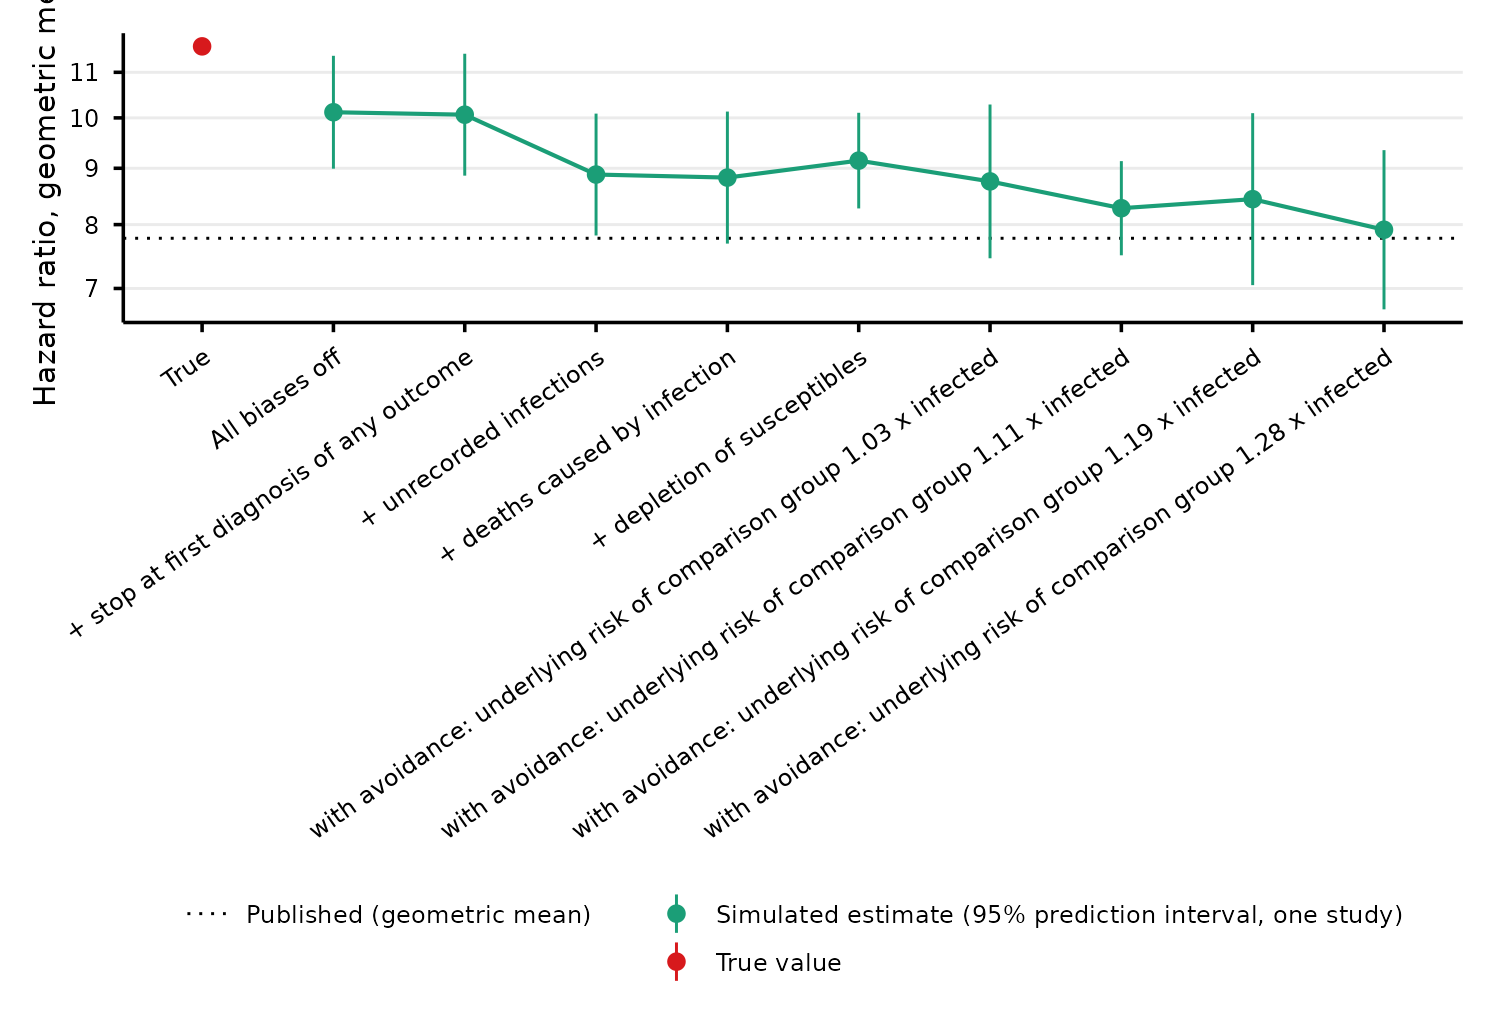
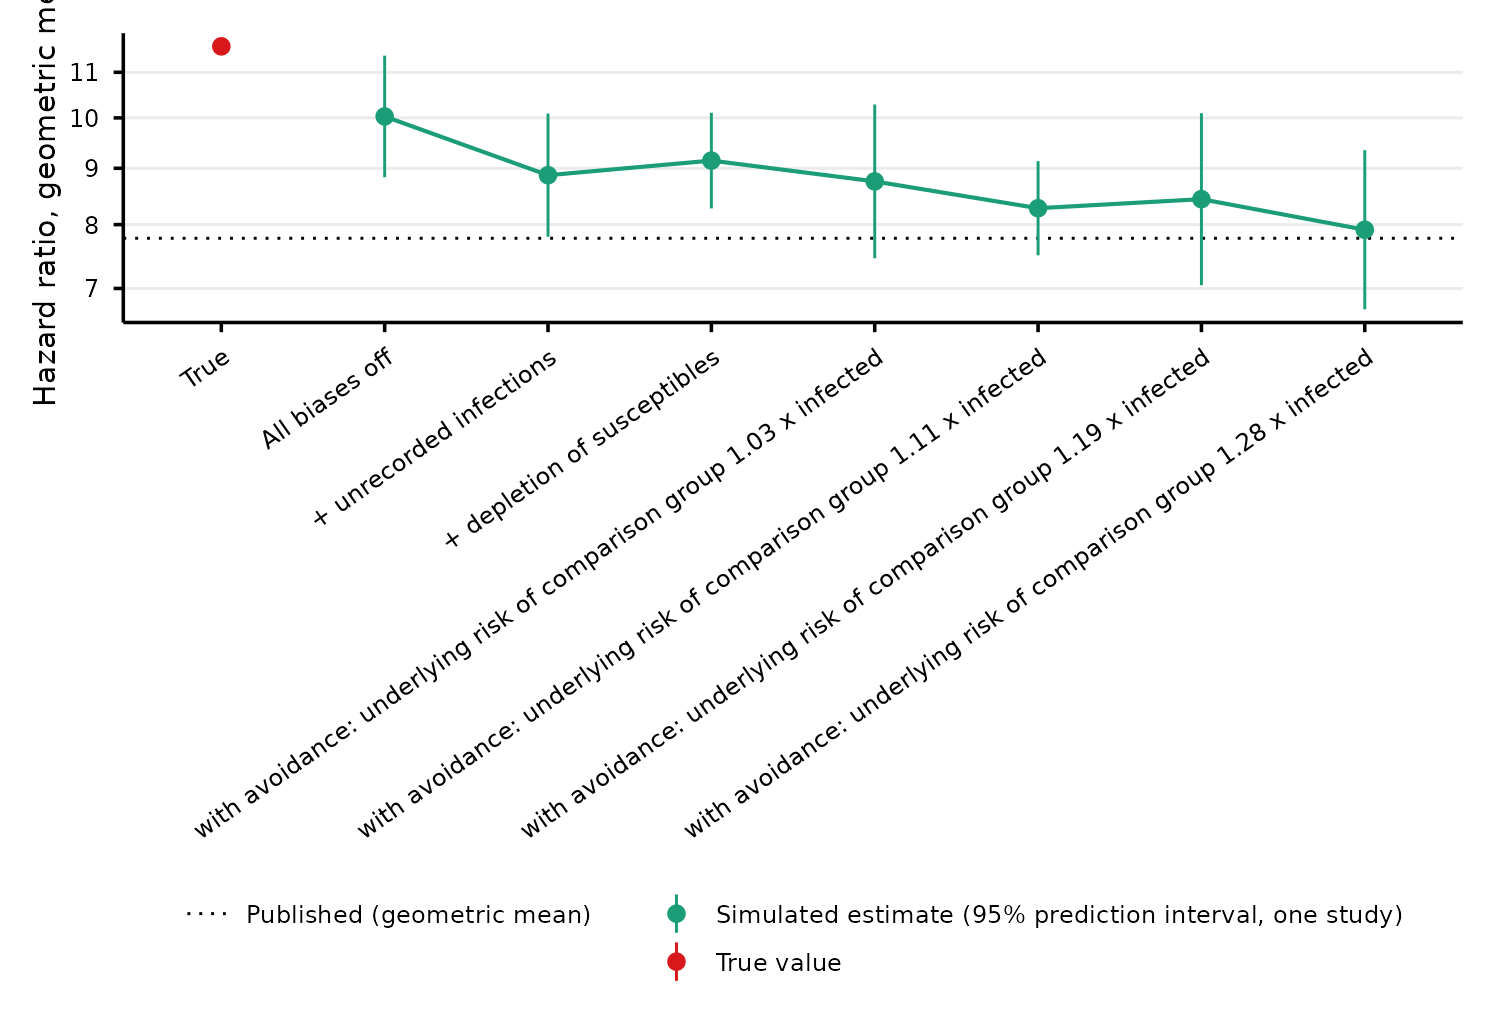
Three biases: unrecorded infections, depletion of susceptibles, avoidance
Stopping follow-up at the first diagnosis of any outcome is now part of
depletion of susceptibles. Deaths caused by infection stay in the model
in every step and are no longer presented as a bias; the README states
their effect on the estimates. The Shapley decomposition is removed.
The final step and the variant results are unchanged.

diff --git a/README.md b/README.md
@@ -23,7 +23,7 @@ The main cause is the comparison group. By the end of 2022, 90% of the cohort ha
 | Comparison group | Person-time of persons whose tests have all been negative so far. The paper calls it test-negative person-time. A person leaves it at their first positive test. |
 | Underlying cardiovascular risk | The part of a person’s cardiovascular risk that age does not explain, for example from smoking, body weight or medication. The paper does not adjust for these. In the code it is called frailty: one number per person that multiplies all of that person’s cardiovascular hazards. |
 | Avoidance of infection | Persons with a higher underlying cardiovascular risk are less likely to be infected. They are then more common among those still uninfected, so the comparison group gets riskier as the population is infected. |
-| Depletion of susceptibles | Infection brings diagnoses forward, most of all in persons at high underlying risk. Those still undiagnosed later are then at lower risk than at the start. |
+| Depletion of susceptibles | Infection brings diagnoses forward, most of all in persons at high underlying risk. Those still undiagnosed later are then at lower risk than at the start. The paper’s rule that follow-up for every outcome stops at the first diagnosis of any of the 15 outcomes is part of it. |
 | Prediction interval | The range in which 95% of estimates from one study of this size would fall, from the spread over the 10 simulated cohorts. |
 | Omicron wave | 21 December 2021 to 10 March 2022 in the model. Widespread PCR testing in Denmark ended on 10 March 2022. |
 | Supplementary Table 1 | Boyd et al.’s main estimates: hazard ratio per outcome and time window. |
@@ -43,7 +43,7 @@ The two patterns point to bias, not protection. The persons infected in 2020 and
 1.  **Cohort.** `Run.R` simulates 10 cohorts of 4,508,489 persons, the size of the paper’s cardiovascular cohort, with its age distribution and follow-up from 1 March 2020 to 31 December 2022.
 2.  **Infections.** 2,698,261 persons get a recorded infection, as in the paper, at dates that follow the Danish national case counts. One third of all infections are unrecorded. Persons with a higher underlying cardiovascular risk are less likely to be infected (avoidance of infection).
 3.  **True effects.** Each infection, recorded or unrecorded, multiplies the person’s hazard of each of 15 cardiovascular outcomes by a true hazard ratio for each time window. Every true hazard ratio is at least 1.01, so infection is harmful for every outcome in every window.
-4.  **Biases.** Five features of the data can move the estimates away from the true hazard ratios: depletion of susceptibles, avoidance of infection, unrecorded infections, deaths caused by infection, and the end of follow-up at a person’s first diagnosis of any of the 15 outcomes.
+4.  **Biases.** Three features of the data move the estimates away from the true hazard ratios: unrecorded infections, depletion of susceptibles and avoidance of infection. The model also lets infection kill some persons, more often those at high underlying risk. This changes the estimates by 3% or less, so it is in the model throughout and is not treated as a bias.
 5.  **Analysis.** Each cohort is analysed as the paper does, approximately: person-time is split by time window, 5-year age band and calendar year, and one Poisson model per outcome gives the estimated hazard ratios.
 
 The true hazard ratios are fitted: they are the values for which the estimated hazard ratios match the published ones, under the rule that a true hazard ratio is at least 1.01 and does not increase with time since infection. [The model](#the-model) gives every input and its source.
@@ -98,19 +98,21 @@ The letter figure is [figures/forest_12m.png](figures/forest_12m.png). It shows 
 
 ### How each bias works
 
-The four examples use 100 persons per group, and illustrative numbers rather than simulation output. In each, infection multiplies every person’s risk of a cardiovascular diagnosis by 1.20. A high-risk person has a 50% risk and a low-risk person a 5% risk. So the true ratio of risks is 1.20 in every example. Each example gives the ratio that a study would see. `Illustrations.R` draws them.
+The three examples use 100 persons per group, and illustrative numbers rather than simulation output. In each, infection multiplies every person’s risk of a cardiovascular diagnosis by 1.20. A high-risk person has a 50% risk and a low-risk person a 5% risk. So the true ratio of risks is 1.20 in every example. Each example gives the ratio that a study would see. `Illustrations.R` draws them.
 
-After each example comes the size of the bias in the simulation: how the estimate at 12 months or more changes when the bias is added. The biases are added in the order of the figures in [the next section](#what-each-bias-does-in-the-simulation), and each value is the geometric mean over the 12 outcomes.
+After each example comes the size of the bias in the simulation: how the estimate at 12 months or more changes when the bias is added. The biases are added in the order below, as in the figures of [the next section](#what-each-bias-does-in-the-simulation), and each value is the geometric mean over the 12 outcomes.
 
-**Higher-risk persons avoid infection.** If persons at high underlying risk are more careful, fewer of them are infected. By 2022, when most of the population had been infected, those still uninfected include a larger share of high-risk persons. The comparison group then looks riskier than the infected group, for a reason that has nothing to do with infection. The study would see 0.81.
+**Unrecorded infections.** About one third of infections in the Omicron wave were not recorded, so some infected persons stay in the comparison group. In the example, 50 of 150 infections are unrecorded. Their raised risk makes the comparison group look worse. The study would see 1.09.
 
-In the simulation, avoidance of infection lowers the estimate from 0.98 to 0.83. It is the largest bias.
+In the simulation, unrecorded infections lower the estimate from 1.18 to 1.04.
 
-![Higher-risk persons avoid infection](figures/illustration_avoidance.png)
+![Unrecorded infections](figures/illustration_unrecorded.png)
 
 **Depletion of susceptibles.** Both groups start with the same 100 persons, followed for two years. A person diagnosed in year 1 is no longer free of cardiovascular disease, so they leave the comparison. Infection brings diagnoses forward, most of all in high-risk persons, so in year 2 the infected group has fewer high-risk persons left. Year 1 shows the true ratio, and year 2 shows 1.10.
 
-In the simulation, depletion of susceptibles lowers the estimate from 1.04 to 0.98. Adding it also lets deaths caused by infection fall on the persons at highest risk. The effect grows with time since infection, as depletion does:
+The paper adds to this. It stops follow-up for every outcome at a person’s first diagnosis in any of the 15 cardiovascular groups, so a diagnosis of one outcome also removes the person from the comparisons of all the others.
+
+In the simulation, depletion of susceptibles lowers the estimate from 1.04 to 0.98. The effect grows with time since infection, as depletion does:
 
 | Time window       | Before | After |
 |:------------------|-------:|------:|
@@ -120,23 +122,15 @@ In the simulation, depletion of susceptibles lowers the estimate from 1.04 to 0.
 
 ![Depletion of susceptibles](figures/illustration_depletion.png)
 
-**Unrecorded infections.** About one third of infections in the Omicron wave were not recorded, so some infected persons stay in the comparison group. In the example, 50 of 150 infections are unrecorded. Their raised risk makes the comparison group look worse. The study would see 1.09.
+**Higher-risk persons avoid infection.** If persons at high underlying risk are more careful, fewer of them are infected. By 2022, when most of the population had been infected, those still uninfected include a larger share of high-risk persons. The comparison group then looks riskier than the infected group, for a reason that has nothing to do with infection. The study would see 0.81.
 
-In the simulation, unrecorded infections lower the estimate from 1.18 to 1.04.
+In the simulation, avoidance of infection lowers the estimate from 0.98 to 0.83. It is the largest bias.
 
-![Unrecorded infections](figures/illustration_unrecorded.png)
-
-**Deaths caused by infection.** Infection kills some of the persons at the highest risk before they can be diagnosed. The infected group loses some of its highest-risk persons. The study would see 1.10.
-
-In the simulation, adding deaths caused by infection leaves the estimate at 1.04.
-
-![Deaths caused by infection](figures/illustration_deaths.png)
-
-**Stopping at the first diagnosis of any outcome.** The paper stops follow-up for every outcome at a person’s first diagnosis in any of the 15 cardiovascular groups. A diagnosis of one outcome therefore removes the person from the comparisons of all the others. This is depletion across outcomes. It removes high-risk persons from both groups. In the simulation, it leaves the estimate at 1.18.
+![Higher-risk persons avoid infection](figures/illustration_avoidance.png)
 
 ### What each bias does in the simulation
 
-`Bias.R` switches the biases on and off in the simulated cohorts, with the true hazard ratios unchanged, and analyses each setting as the paper does. In the table of contributions below, depletion of susceptibles and avoidance of infection are counted together, because both work through underlying risk.
+`Bias.R` switches the biases on and off in the simulated cohorts, with the true hazard ratios unchanged, and analyses each setting as the paper does.
 
 There is one figure per time window. Each starts with all biases off and adds them one at a time. The last steps are avoidance of increasing strength, and each replaces the step before it. Each label gives the mean underlying risk of the comparison group from 28 August to 31 December 2022, relative to persons after a recorded infection in the same period, both counted until their first cardiovascular diagnosis. It is pooled over ages and time windows, and is not a ratio of cardiovascular risk. Each point is the geometric mean over the outcomes with an estimate in every cohort: all 12, except at day 0-1, where 8 outcomes have one. Each bar is the 95% prediction interval for one study.
 
@@ -165,10 +159,8 @@ There is one figure per time window. Each starts with all biases off and adds th
 | Step | Day 0-1 | Day 2 to \<1 month | 1 to 5 months | 6 to 11 months | 12 months or more |
 |:---|---:|---:|---:|---:|---:|
 | True | 11.61 | 1.62 | 1.34 | 1.32 | 1.19 |
-| All biases off | 10.12 | 1.60 | 1.33 | 1.31 | 1.18 |
-| \+ stop at first diagnosis of any outcome | 10.07 | 1.60 | 1.33 | 1.31 | 1.18 |
-| \+ unrecorded infections | 8.88 | 1.43 | 1.18 | 1.16 | 1.04 |
-| \+ deaths caused by infection | 8.83 | 1.43 | 1.18 | 1.16 | 1.04 |
+| All biases off | 10.03 | 1.60 | 1.33 | 1.31 | 1.18 |
+| \+ unrecorded infections | 8.87 | 1.43 | 1.18 | 1.16 | 1.04 |
 | \+ depletion of susceptibles | 9.15 | 1.46 | 1.18 | 1.10 | 0.98 |
 | with avoidance: underlying risk of comparison group 1.03 x infected | 8.76 | 1.43 | 1.14 | 1.06 | 0.95 |
 | with avoidance: underlying risk of comparison group 1.11 x infected | 8.28 | 1.36 | 1.09 | 1.02 | 0.91 |
@@ -177,18 +169,9 @@ There is one figure per time window. Each starts with all biases off and adds th
 
 - **12 months or more:** with all biases off, the estimate is 1.18, against a true value of 1.19. Unrecorded infections bring it to 1.04, depletion of susceptibles to 0.98, and avoidance to 0.83.
 - **1 to 5 and 6 to 11 months:** avoidance lowers these windows too, to 1.01 and 0.94. The true values are higher here (1.34 and 1.32) than at 12 months or more.
-- **Day 0-1 and day 2 to \<1 month:** with all biases off, the estimates are below the true values (10.12 against 11.61, and 1.60 against 1.62). The paper starts follow-up 30 days after the first test. For a person whose first test was positive, the early windows then lie about a month after infection, when the effect is smaller.
+- **Day 0-1 and day 2 to \<1 month:** with all biases off, the estimates are below the true values (10.03 against 11.61, and 1.60 against 1.62). The paper starts follow-up 30 days after the first test. For a person whose first test was positive, the early windows then lie about a month after infection, when the effect is smaller.
 
-The order of the steps is a choice. It changes the size of each step, but not the first or last point. The table below does not depend on the order. For each bias, it gives the factor by which adding it multiplies the estimate, as a geometric mean over all orders in which the four can be added. This is exp(-phi), where phi is the Shapley contribution on the log scale.
-
-| Bias | Day 0-1 | Day 2 to \<1 month | 1 to 5 months | 6 to 11 months | 12 months or more |
-|:---|---:|---:|---:|---:|---:|
-| Stopping at the first diagnosis of any outcome | 1.01 | 1.02 | 1.01 | 1.00 | 0.98 |
-| Unrecorded infections | 0.89 | 0.90 | 0.89 | 0.89 | 0.89 |
-| Deaths caused by infection | 0.97 | 0.98 | 0.99 | 0.99 | 0.99 |
-| Depletion of susceptibles, with avoidance of infection | 0.90 | 0.86 | 0.86 | 0.81 | 0.80 |
-
-At 12 months or more, the two biases in the comparison group make most of the difference. Depletion of susceptibles and avoidance of infection together multiply the estimate by 0.80, and unrecorded infections by 0.89. Deaths caused by infection and stopping at the first diagnosis of any outcome each change it by 2% or less.
+The order of the steps is a choice. It changes the size of each step, but not the first or last point.
 
 ### How avoidance changes the comparison group
 
@@ -439,7 +422,7 @@ Where the true hazard ratio is 1.01, the extra rate is close to 0 and can fall j
 | `Run.R` | The model settings, the published values with their sources, the analysis and the output. |
 | `R/functions.R` | The simulation, the analysis and the cohort description. |
 | `Bias.R` | What each bias contributes, the strength of avoidance, and the analysis by variant. |
-| `Illustrations.R` | The four examples with 100 persons per group. |
+| `Illustrations.R` | The three examples with 100 persons per group. |
 | `README.qmd` | The source of this README. |
 | `data/ssi/` | The SSI source files, byte for byte, with their sources and md5s. |
 | `figures/` | The figures that `Run.R`, `Bias.R` and `Illustrations.R` draw. |
